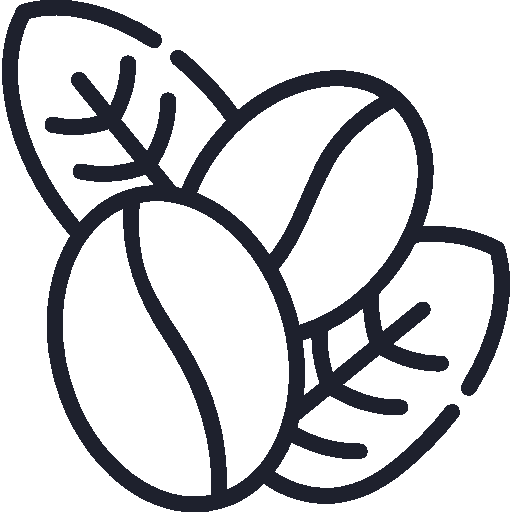
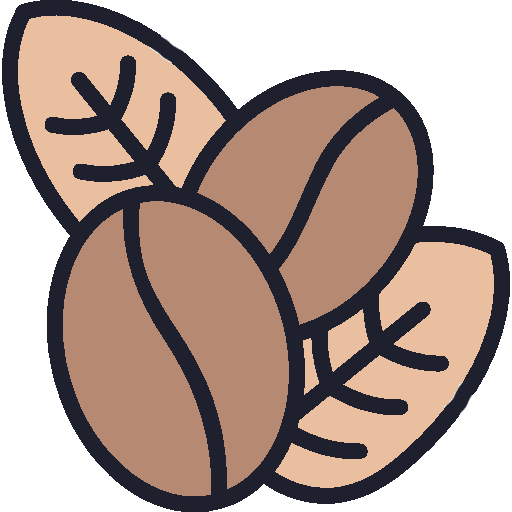
Change styling of nav

diff --git a/src/style.css b/src/style.css
@@ -59,19 +59,23 @@ img {
 }
 
 #content {
+    height: 100%;
     display: grid;
-    grid-template: 1fr 4fr / 1fr;
+    grid-template: 1fr 9fr / 1fr;
 }
 
 #nav {
     display: flex;
-    color: var(--black);
-    border-bottom: 2px solid var(--black);
+    background: url(../src/chalkboard.jpeg);
+    background-size: 100% 100%;
+    box-shadow: rgba(50, 50, 93, 0.25) 0px 13px 27px -5px, rgba(0, 0, 0, 0.3) 0px 8px 16px -8px;
 }
 
 .branding {
+    color: var(--brown);
     font-family: 'Playfair Display', serif;
     font-style: italic;
+    font-weight: bold;
     display: flex;
     align-items: center;
     gap: 25px;
@@ -87,9 +91,25 @@ img {
     gap: 50px;
     padding: 30px;
     margin-right: 100px;
-    font-size: .7rem;
 }
 
-.sections > p:hover {
-    border-bottom: 2px solid var(--black);
+.sections > button {
+    font-weight: bold;
+    font-size: .65rem;
+    border: 0px;
+    background-color: transparent;
+    color: var(--cream);
+    border-bottom: 2px solid var(--cream);
+    height: 35px;
+    width: 85px;
+}
+
+.sections > button:hover {
+    transform: scale(1.05);
+    color: var(--brown);
+    border-bottom: 2px solid var(--brown);
+}
+
+.sections > button:active {
+    transform: scale(1.15);
 }

diff --git a/dist/index.html b/dist/index.html
@@ -2,7 +2,7 @@
 <html lang="en">
     <head>
         <meta charset="UTF-8">
-        <title>Restaurant Page</title>
+        <title>Java Script</title>
         <script src="main.js" defer></script>
         <link rel="stylesheet" href="../src/style.css">
     </head>
@@ -14,9 +14,10 @@
                     <h1 class="logo">Java Script</h1>
                 </div>
                 <div class="sections">
-                    <p class="home">Home</p>
-                    <p class="menu">Menu</p>
-                    <p class="about">About</p>
+                    <button class="home">Home</button>
+                    <button class="menu">Menu</button>
+                    <button class="about">About</button>
+                    <img src="../src/coffee.png">
                 </div>
             </div>
             <div id="home">
